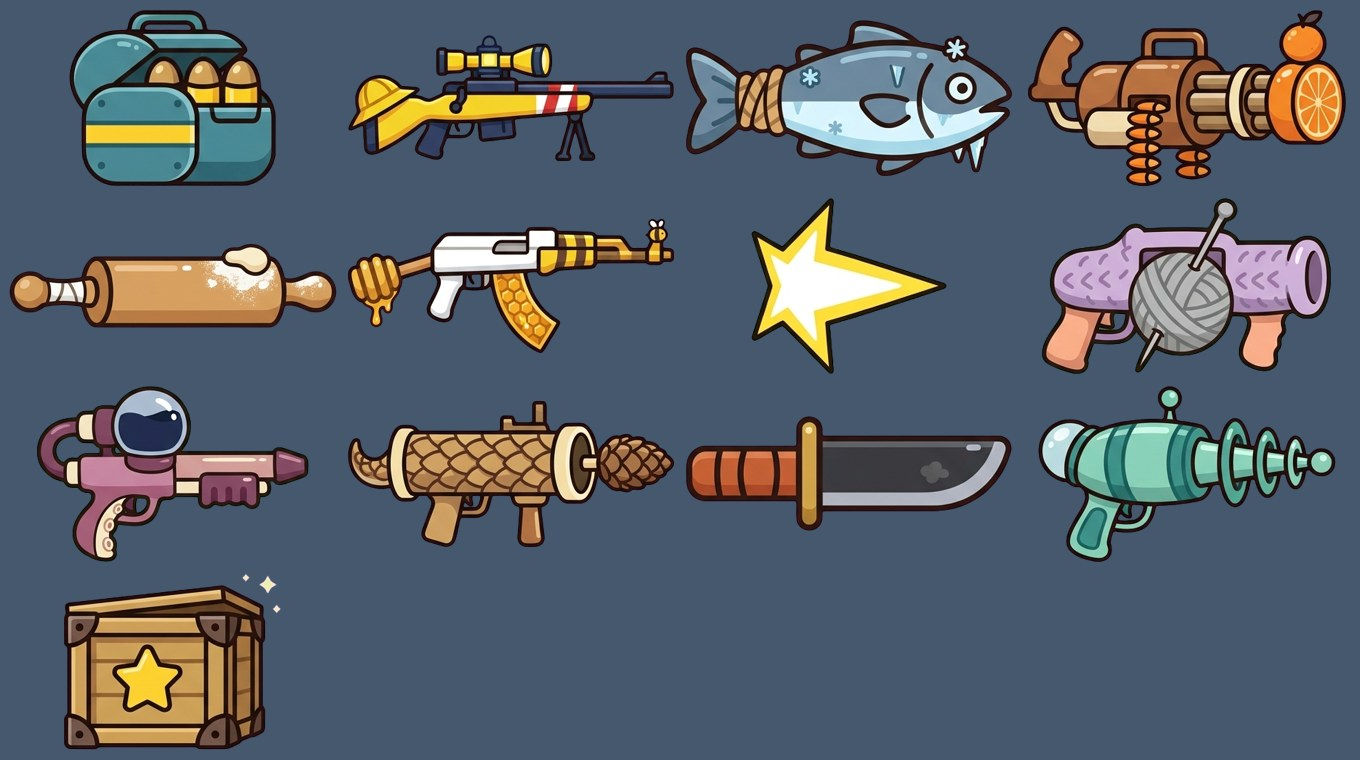
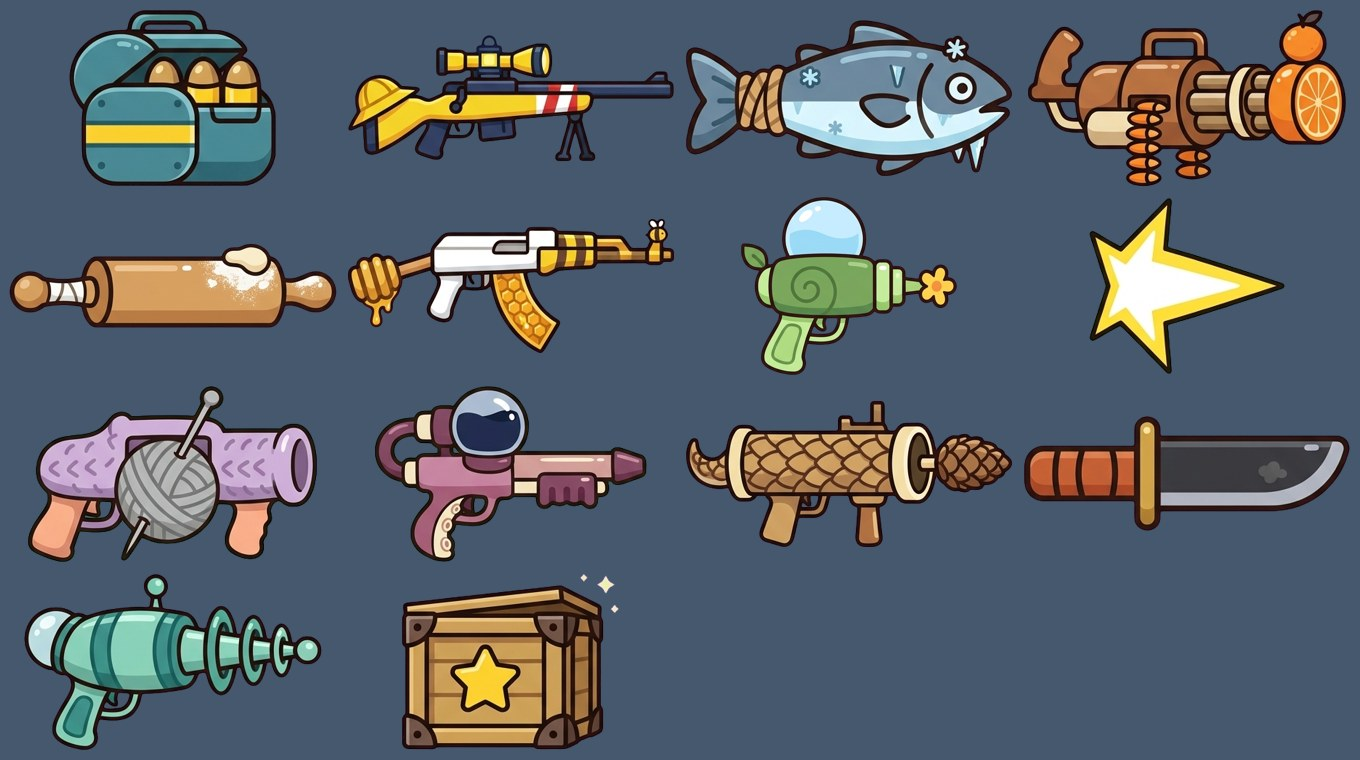
Add Mossy the healer snail: art, pick card, sprayer, bullet, effects, animations
Claude-Session: https://claude.ai/code/session_01EhkagRdaEkRKXUjDzP8ARK

Changed region(s): [[0.0, 0.2421, 1.0, 0.9987], [0.2779, 0.7566, 0.4632, 0.9987], [0.525, 0.2421, 0.7103, 0.5145]]

diff --git a/HANDOFF.md b/HANDOFF.md
@@ -13,7 +13,7 @@ This repo (`zqh7y/Game_Assets2`, branch `main`) holds the art. Push finished wor
 ## What already exists (all done, don't redo)
 
 - `brawlers/` - reference art for Beam, Dough, Soot, Honey, Nana, Capy, Pango,
-  Bill, Tardi, Octo.
+  Bill, Tardi, Octo, Mossy.
   Peep, Dragon and Spooky (Artem's older originals) and Axo were removed from the repo on Artem's request (Nov 24) - don't add them back.
 - `cards/` - `<Name>_card.png` for all 11: transparent, arch-shaped gold-rim pick card
   with a name ribbon and a count badge.
@@ -75,6 +75,7 @@ This repo (`zqh7y/Game_Assets2`, branch `main`) holds the art. Push finished wor
 | Bill | shoebill | stare stun | `bill_shockwave` |
 | Tardi | tardigrade | tank | `tardi_bubble` |
 | Octo | octopus | ink squirt | `octo_ink` |
+| Mossy | garden snail | healer (replaced Axo) | none yet (use `support/heal_heart`) |
 
 ## Artem's design laws (never break these)
 
@@ -90,6 +91,7 @@ This repo (`zqh7y/Game_Assets2`, branch `main`) holds the art. Push finished wor
 - Dough's armed sheet reuses his old rolling-pin walk and swing frames, so his bat there is a plain
   rolling pin without the cloth grip of the weapon icon.
 - Octo's gun is drawn very small in its armed sheet.
+- Mossy's yellow shell flower is on his card but missing from most of his animation frames.
 - Nana holds her slipper only in the attack row (on purpose, it fixed an
   inconsistency).
 

diff --git a/README.md b/README.md
@@ -28,6 +28,7 @@ Art assets for the brawler game.
 | Bill | shoebill | stare stun |
 | Tardi | tardigrade | tank |
 | Octo | octopus | ink squirt |
+| Mossy | garden snail | healer |
 
 ![All brawlers](brawlers/_overview.png)
 
@@ -57,6 +58,7 @@ Every brawler has its own weapon, skinned in its own colors: 8 guns and 3 melee 
 | Nana | Slipper Launcher | slipper | mid range, small splash |
 | Dough | Rolling-Pin Bat | melee swing | melee, big hits, knockback |
 | Capy | Citrus Minigun | orange slices | heavy, spin-up, slow walk |
+| Mossy | Dew-Drop Sprayer | dew drop | support, heals teammates |
 
 ![All weapons](weapons/_overview.jpg)
 
